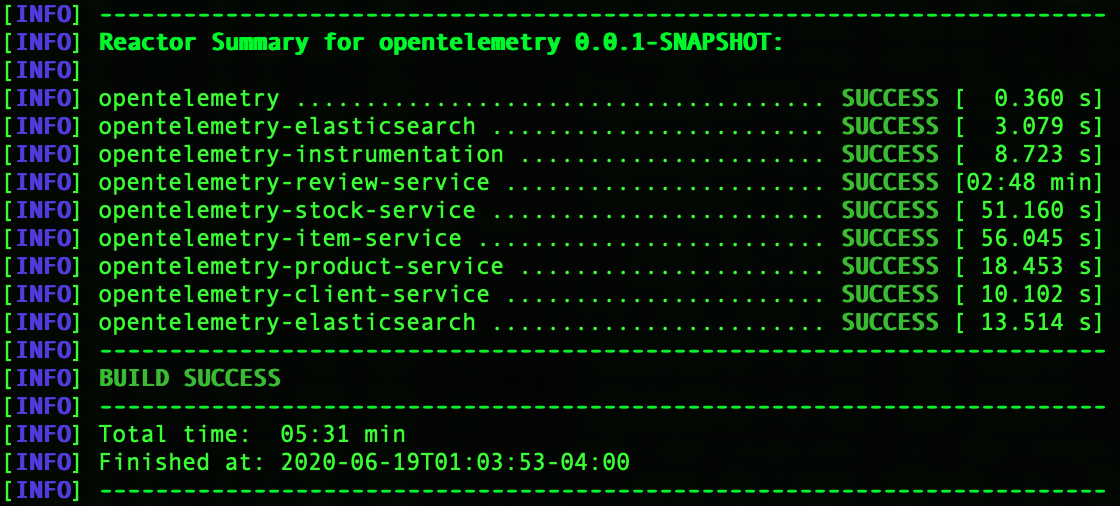
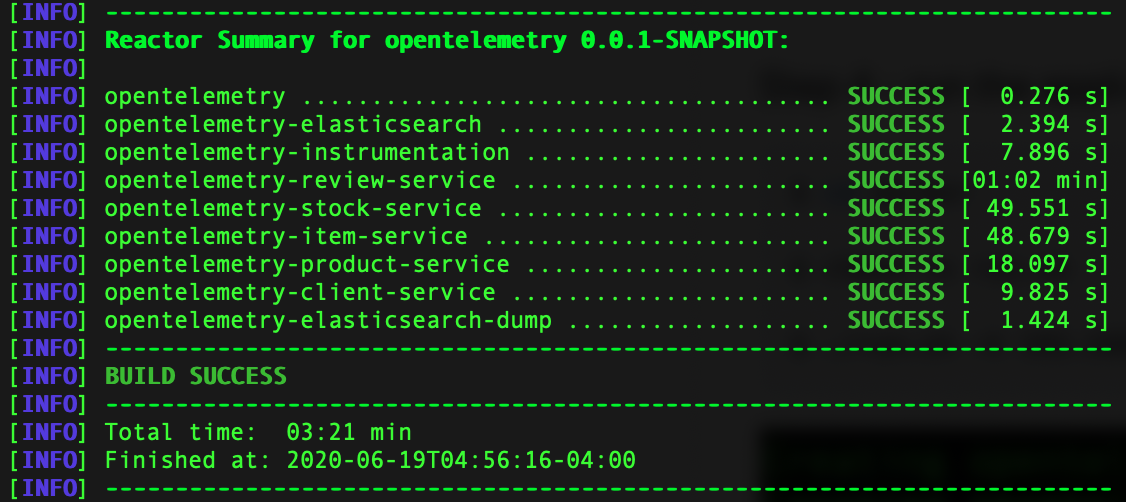
a few changes to README.md, project pom and wait time between service start ups

Changed region(s): [[0.0, 0.0, 1.0, 1.0], [0.75, 0.1494, 1.0, 0.6574], [0.4688, 0.3586, 0.6875, 0.3884]]

diff --git a/opentelemetry-instrumentation/src/main/java/com/lfg/poc/opentelemetry/autoconfigure/feign/FeignClientInterceptor.java b/opentelemetry-instrumentation/src/main/java/com/lfg/poc/opentelemetry/autoconfigure/feign/FeignClientInterceptor.java
@@ -1,16 +1,16 @@
 package com.lfg.poc.opentelemetry.autoconfigure.feign;
 
-import java.util.HashMap;
-import java.util.Map;
-import java.util.stream.Collectors;
+//import java.util.HashMap;
+//import java.util.Map;
+//import java.util.stream.Collectors;
 
 import org.springframework.beans.factory.annotation.Autowired;
 
 import feign.RequestInterceptor;
 import feign.RequestTemplate;
 import io.opentelemetry.context.propagation.HttpTextFormat;
-import io.opentelemetry.trace.AttributeValue;
-import io.opentelemetry.trace.Span;
+//import io.opentelemetry.trace.AttributeValue;
+//import io.opentelemetry.trace.Span;
 import io.opentelemetry.trace.SpanContext;
 import io.opentelemetry.trace.Tracer;
 
@@ -31,7 +31,7 @@ public class FeignClientInterceptor implements RequestInterceptor {
 			}
 		});
 
-		Span currentSpan = tracer.spanBuilder(Span.Kind.CLIENT.name() + " " + requestTemplate.method() + " " + requestTemplate.path()).setParent(spanContext)
+		/*Span currentSpan = tracer.spanBuilder(Span.Kind.CLIENT.name() + " " + requestTemplate.method() + " " + requestTemplate.path()).setParent(spanContext)
 				.setSpanKind(Span.Kind.CLIENT).startSpan();
 		
 		Map<String, AttributeValue> eventAttributes = new HashMap<>();
@@ -48,6 +48,6 @@ public class FeignClientInterceptor implements RequestInterceptor {
 		currentSpan.setAttribute("http.headers", 
 				AttributeValue.stringAttributeValue(requestTemplate.headers().keySet().stream().map(e -> e + ": " + requestTemplate.headers().get(e).stream().collect(Collectors.joining(", ")))
 				.collect(Collectors.joining("\n"))));
-		currentSpan.end();
+		currentSpan.end();*/
 	}
 }

diff --git a/README.md b/README.md
@@ -60,6 +60,8 @@ http://localhost:16686/
 
 ![jaeger spans](/screenshot/jaeger-spans.png?raw=true "Jaeger Spans")
 
+![services-view](/screenshot/spans.png?raw=true "Service View ")
+
 ### Step 6 - view metrics
 ```console
 http://localhost:9090/
